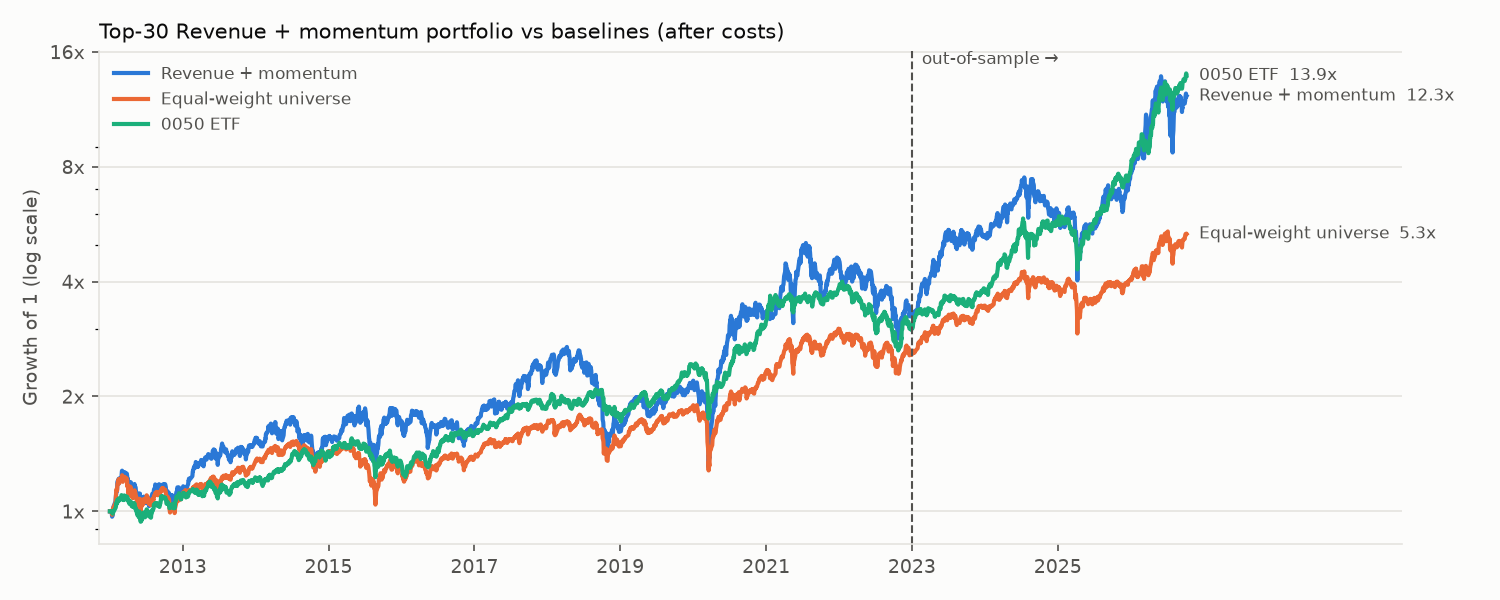
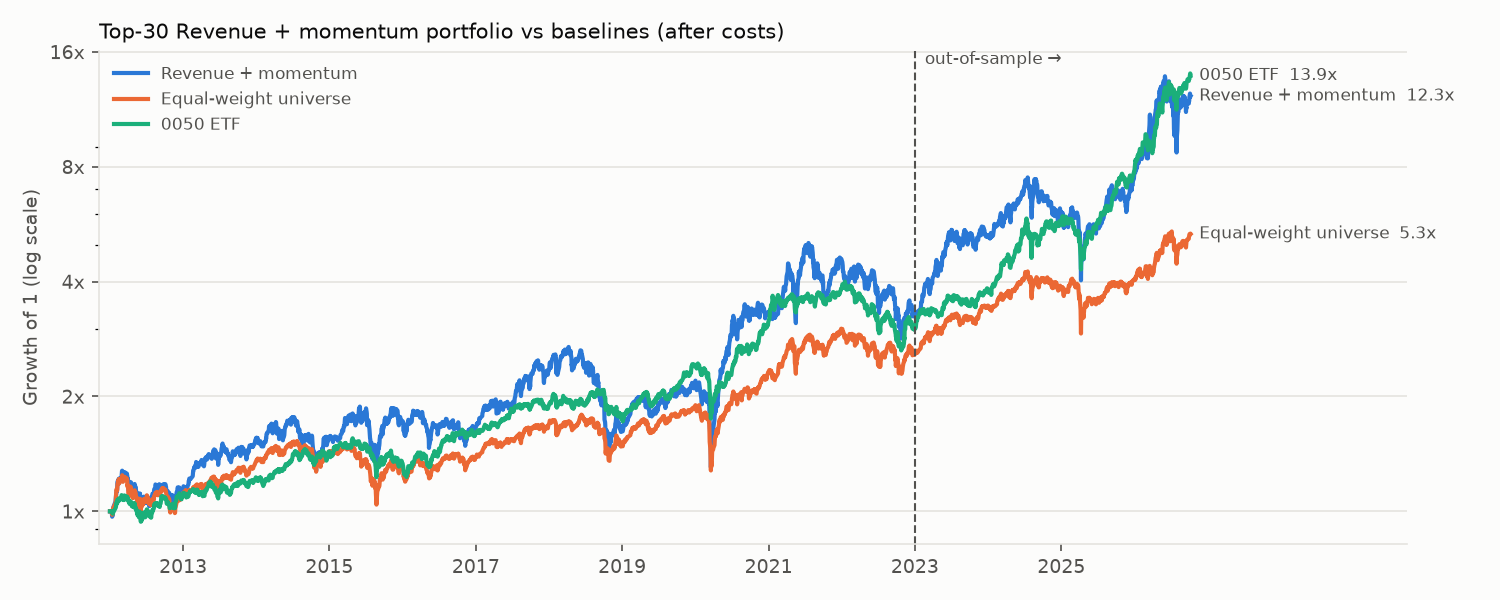
Accurate disclosure: research reruns and when momentum was added
Claude-Session: https://claude.ai/code/session_01KbfSi1Qu9oinJQWryNUB7B

diff --git a/src/twbt/research/report.py b/src/twbt/research/report.py
@@ -416,11 +416,16 @@ def write_report(res: StudyResult, n: dict, out: Path) -> None:
 
 ### 研究程序與揭露
 
-- 樣本內：{n['start']} ~ {n['split']} 前；樣本外：{n['split']} 起，**只在最後跑一次**。
+- 樣本內：{n['start']} ~ {n['split']} 前；樣本外：{n['split']} 起。
 - 選擇規則事先訂好：樣本內 top-{n['main_n']} 組合 Sharpe 最高者。三個候選的樣本外結果全部列出。
-- 誠實揭露：在這份正式研究之前，曾用全期資料做過探索，並據此決定了三件事：
-  營收用「3 個月合計」而非單月年增率平均、排除建材營造業、持股 30 檔而非 8 檔。
-  因此樣本外期間並非完全沒被看過，結果應視為偏樂觀的上限。
+- 揭露：樣本外期間並非完全沒被看過，結果應視為偏樂觀的上限。具體來說：
+  1. 正式研究之前，曾用全期資料探索營收訊號，並據此決定三件事：營收用「3 個月合計」
+     而非單月年增率平均、排除建材營造業、持股 30 檔而非 8 檔。
+  2. 價格動能與合併訊號是在看過營收的探索結果之後才加入的候選；定義直接取自文獻，
+     沒有調整參數。
+  3. 正式研究重跑過數次，以修正資料與引擎的正確性問題（同一事件在兩張表重複記錄、
+     超過漲跌幅限制的錯誤報價、等權重基準的成本設定）。每一次修正都讓組合結果變差，
+     沒有任何一次是看了樣本外結果之後調整訊號或參數。
 
 ### 資料檢查
 

diff --git a/README.md b/README.md
@@ -23,7 +23,7 @@
 | 錯誤報價與漏記事件 | 超過漲跌幅限制、當天又沒有公司行動的跳動，研究期間共 3,277 筆（占股票日 0.05%），視為漏記的公司行動、價值中性處理（[稽核工具](src/twbt/research/audit.py)） |
 | 交易限制 | 訊號在收盤產生、隔天開盤成交；開盤一價到底的漲停買不到、跌停賣不掉（2015-06 前 ±7%，之後 ±10%）；可選零股或整張 |
 | 成本 | 手續費折扣與每筆最低手續費、證交稅（股票 0.3%、ETF 0.1%）、滑價 |
-| 過度擬合 | 候選訊號依文獻事先決定；樣本外只在最後跑一次；選擇規則事先寫定；探索過程中看過全期資料的部分在報告中揭露 |
+| 過度擬合 | 候選訊號的定義取自文獻、不調參數；選擇規則只看樣本內、事先寫定；所有候選的樣本外結果都列出；探索過程中看過全期資料、以及為修正錯誤重跑研究的經過，在報告中逐項揭露 |
 | 重複記錄的公司行動 | 同一次面額變更同時出現在「分割」和「變更面額」兩張表，曾讓持股被放大 400 倍而不是 20 倍；同一天、同一個事件前價格的事件只套用一次 |
 | 組合層級檢查 | 每檔持股單日漲跌最多 10%，所以組合單日變動超過 11% 一定是錯誤；研究流程會自動檢查並寫進報告。上面那個 bug 就是用這個檢查加上逐檔損益歸因找到的 |
 | 可重現 | 查詢結果一律排序，同分時依股票代號決定；同樣資料跑兩次結果完全相同 |
